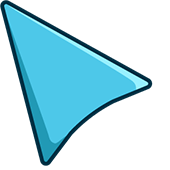
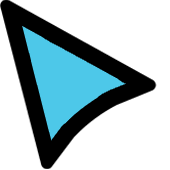
Hud and Menu Makeup
- changed cursor
- removed text outlines
- added main menu button patch
- renamed some tor to ter
- changed tersettings logo

Changed region(s): [[0.0, 0.0, 0.9412, 1.0]]

diff --git a/TheOtherRoles/Patches/MainMenuButtonsPatch.cs b/TheOtherRoles/Patches/MainMenuButtonsPatch.cs
@@ -1,0 +1,96 @@
+using HarmonyLib;
+using UnityEngine;
+
+/*
+ * This patch adds two buttons to the main menu:
+ * - Discord
+ * - GitHub
+ * And it changes the color of the exit button
+ */
+
+namespace TheOtherRoles.Patches {
+    [HarmonyPatch(typeof(MainMenuManager), nameof(MainMenuManager.Start))]
+    public class MainMenuButtonsPatch {
+
+        private static Color buttonColor = new Color(0, 1, 0.9f, 1);
+        private static Color buttonColorHover = new Color(0, 0.5f, 1, 1);
+        private static Color buttonExitColor = Color.red;
+        private static Color buttonExitColorHover = new Color(1, 0.3f, 0.3f, 1);
+        private static void Prefix(MainMenuManager __instance) {
+            // ---- Exit Button -----
+            // Get ExitGameButton
+            var btnExit = GameObject.Find("ExitGameButton");
+
+            // Get Button Sprite + Text
+            SpriteRenderer btnExitSprite = btnExit.GetComponent<SpriteRenderer>();
+            var textExit = btnExit.transform.GetChild(0).GetComponent<TMPro.TMP_Text>();
+           
+            // Change Init Color        
+            btnExitSprite.color = textExit.color = buttonExitColor;
+           
+            // Get PassivButton and add listeners
+            PassiveButton btnExitPassive = btnExit.GetComponent<PassiveButton>();
+            btnExitPassive.OnMouseOver.AddListener((UnityEngine.Events.UnityAction)delegate {
+                btnExitSprite.color = textExit.color = buttonExitColorHover;
+            });
+            btnExitPassive.OnMouseOut.AddListener((UnityEngine.Events.UnityAction)delegate {
+                btnExitSprite.color = textExit.color = buttonExitColor;         
+            });
+
+            // ---- Discord Button -----
+            // Clone ExitGameButton and change position
+            var btnDiscord = UnityEngine.Object.Instantiate(btnExit, null);
+            btnDiscord.transform.localPosition = new Vector3(btnDiscord.transform.localPosition.x, btnDiscord.transform.localPosition.y + 0.6f, btnDiscord.transform.localPosition.z);
+            
+            // Get Button Sprite + Text and change Text
+            SpriteRenderer btnDiscordSprite = btnDiscord.GetComponent<SpriteRenderer>();
+            var textDiscord = btnDiscord.transform.GetChild(0).GetComponent<TMPro.TMP_Text>();
+            __instance.StartCoroutine(Effects.Lerp(0.1f, new System.Action<float>((p) => {
+                textDiscord.SetText("Join TER\nDiscord");                
+            })));
+
+            // Change Init Color
+            btnDiscordSprite.color = textDiscord.color = buttonColor;
+
+            // Get PassivButton and add listeners
+            PassiveButton btnDiscordPassive = btnDiscord.GetComponent<PassiveButton>();
+            btnDiscordPassive.OnClick.AddListener((UnityEngine.Events.UnityAction)delegate {
+                Application.OpenURL("https://discord.gg/WjegsxEuAD");
+            });
+            btnDiscordPassive.OnMouseOver.AddListener((UnityEngine.Events.UnityAction)delegate {
+                btnDiscordSprite.color = textDiscord.color = buttonColorHover;
+            });
+            btnDiscordPassive.OnMouseOut.AddListener((UnityEngine.Events.UnityAction)delegate {
+                btnDiscordSprite.color = textDiscord.color = buttonColor;
+            });
+
+            // ---- GitHub Button -----
+            // Clone ExitGameButton and change position
+            var btnGithub = UnityEngine.Object.Instantiate(btnExit, null);
+            btnGithub.transform.localPosition = new Vector3(btnGithub.transform.localPosition.x, btnGithub.transform.localPosition.y + 1.2f, btnGithub.transform.localPosition.z);
+
+            // Get Button Sprite + Text and change Text
+            SpriteRenderer btnGithubsprite = btnGithub.GetComponent<SpriteRenderer>();
+            var textGithub = btnGithub.transform.GetChild(0).GetComponent<TMPro.TMP_Text>();
+            __instance.StartCoroutine(Effects.Lerp(0.1f, new System.Action<float>((p) => {
+                textGithub.SetText("Open\nGitHub");                
+            })));
+
+            // Change Init Color
+            btnGithubsprite.color = textGithub.color = buttonColor;
+
+            // Get PassivButton and add listeners
+            PassiveButton btnGithubPassive = btnGithub.GetComponent<PassiveButton>();
+            btnGithubPassive.OnClick.AddListener((UnityEngine.Events.UnityAction)delegate {
+                Application.OpenURL("https://github.com/LaicosVK/TheEpicRoles");
+            });
+            btnGithubPassive.OnMouseOver.AddListener((UnityEngine.Events.UnityAction)delegate {
+                btnGithubsprite.color = textGithub.color = buttonColorHover;
+            });
+            btnGithubPassive.OnMouseOut.AddListener((UnityEngine.Events.UnityAction)delegate {
+                btnGithubsprite.color = textGithub.color = buttonColor;
+            });
+
+        }
+    }
+}

diff --git a/TheOtherRoles/Patches/CredentialsPatch.cs b/TheOtherRoles/Patches/CredentialsPatch.cs
@@ -9,8 +9,8 @@ using UnityEngine;
 namespace TheOtherRoles.Patches {
     [HarmonyPatch]
     public static class CredentialsPatch {
-        public static string fullCredentials =  $@"<size=130%><color=#00ffd9>TheEpicRoles</color></size> <size=50%>v{TheOtherRolesPlugin.Version.ToString()}
-                                                Remodded by <color=#D5342AFF>LaicosVK</color>, <color=#D5342AFF>Nova</color> & <color=#D5342AFF>DasMonschta</color></size>";
+        public static string fullCredentials = $@"<size=130%><color=#00ffd9>TheEpicRoles</color></size> <size=50%>v{TheOtherRolesPlugin.Version.ToString()}
+                                               Remodded by <color=#D5342AFF>LaicosVK</color>, <color=#D5342AFF>Nova</color> & <color=#D5342AFF>DasMonschta</color></size>";
 
         public static string mainMenuCredentials = $@"Remodded by <color=#D5342AFF>LaicosVK</color>, <color=#D5342AFF>Nova</color> & <color=#D5342AFF>DasMonschta</color>";
 
@@ -28,7 +28,7 @@ namespace TheOtherRoles.Patches {
                 credentials.SetText($"v{TheOtherRolesPlugin.Version.ToString()}\n<size=30f%>\n</size>{mainMenuCredentials}\n<size=30%>\n</size>{torCredentials}");
                 credentials.alignment = TMPro.TextAlignmentOptions.Center;
                 credentials.fontSize *= 0.75f;
-
+                credentials.SetOutlineThickness(0);
                 credentials.transform.SetParent(amongUsLogo.transform);
             }
         }
@@ -53,14 +53,15 @@ namespace TheOtherRoles.Patches {
 
             static void Postfix(PingTracker __instance){
                 __instance.text.alignment = TMPro.TextAlignmentOptions.TopRight;
+                __instance.text.SetOutlineThickness(0);
                 if (AmongUsClient.Instance.GameState == InnerNet.InnerNetClient.GameStates.Started) {
-                    __instance.text.text = $"<size=130%><color=#ff351f>TheEpicRoles</color></size> v{TheOtherRolesPlugin.Version.ToString()}\n" + __instance.text.text;
+                    __instance.text.text = $"<size=130%><color=#00ffd9>TheEpicRoles</color></size> <size=50%>v{TheOtherRolesPlugin.Version.ToString()}</size>\n" + __instance.text.text;
                     if (PlayerControl.LocalPlayer.Data.IsDead || (!(PlayerControl.LocalPlayer == null) && (PlayerControl.LocalPlayer == Lovers.lover1 || PlayerControl.LocalPlayer == Lovers.lover2))) {
                         __instance.transform.localPosition = new Vector3(3.45f, __instance.transform.localPosition.y, __instance.transform.localPosition.z);
                     } else {
                         __instance.transform.localPosition = new Vector3(4.2f, __instance.transform.localPosition.y, __instance.transform.localPosition.z);
                     }
-                } else {
+                } else {   
                     __instance.text.text = $"{fullCredentials}\n{__instance.text.text}";
                     __instance.transform.localPosition = new Vector3(3.5f, __instance.transform.localPosition.y, __instance.transform.localPosition.z);
                 }
@@ -70,7 +71,7 @@ namespace TheOtherRoles.Patches {
         [HarmonyPatch(typeof(MainMenuManager), nameof(MainMenuManager.Start))]
         private static class LogoPatch
         {
-            static void Postfix(PingTracker __instance) {
+            static void Postfix(MainMenuManager __instance) {
                 var amongUsLogo = GameObject.Find("bannerLogo_AmongUs");
                 if (amongUsLogo != null) {
                     amongUsLogo.transform.localScale *= 0.6f;

diff --git a/TheOtherRoles/Patches/GameStartManagerPatch.cs b/TheOtherRoles/Patches/GameStartManagerPatch.cs
@@ -68,18 +68,18 @@ namespace TheOtherRoles.Patches {
                             continue;
                         else if (!playerVersions.ContainsKey(client.Id))  {
                             blockStart = true;
-                            message += $"<color=#FF0000FF>{client.Character.Data.PlayerName} has a different or no version of The Other Roles\n</color>";
+                            message += $"<color=#FF0000FF>{client.Character.Data.PlayerName} has a different or no version of The Epic Roles\n</color>";
                         } else {
                             PlayerVersion PV = playerVersions[client.Id];
                             int diff = TheOtherRolesPlugin.Version.CompareTo(PV.version);
                             if (diff > 0) {
-                                message += $"<color=#FF0000FF>{client.Character.Data.PlayerName} has an older version of The Other Roles (v{playerVersions[client.Id].version.ToString()})\n</color>";
+                                message += $"<color=#FF0000FF>{client.Character.Data.PlayerName} has an older version of The Epic Roles (v{playerVersions[client.Id].version.ToString()})\n</color>";
                                 blockStart = true;
                             } else if (diff < 0) {
-                                message += $"<color=#FF0000FF>{client.Character.Data.PlayerName} has a newer version of The Other Roles (v{playerVersions[client.Id].version.ToString()})\n</color>";
+                                message += $"<color=#FF0000FF>{client.Character.Data.PlayerName} has a newer version of The Epic Roles (v{playerVersions[client.Id].version.ToString()})\n</color>";
                                 blockStart = true;
                             } else if (!PV.GuidMatches()) { // version presumably matches, check if Guid matches
-                                message += $"<color=#FF0000FF>{client.Character.Data.PlayerName} has a modified version of TOR v{playerVersions[client.Id].version.ToString()} <size=30%>({PV.guid.ToString()})</size>\n</color>";
+                                message += $"<color=#FF0000FF>{client.Character.Data.PlayerName} has a modified version of TER v{playerVersions[client.Id].version.ToString()} <size=30%>({PV.guid.ToString()})</size>\n</color>";
                                 blockStart = true;
                             }
                         }
@@ -104,7 +104,7 @@ namespace TheOtherRoles.Patches {
                             SceneChanger.ChangeScene("MainMenu");
                         }
 
-                        __instance.GameStartText.text = $"<color=#FF0000FF>The host has no or a different version of The Other Roles\nYou will be kicked in {Math.Round(10 - kickingTimer)}s</color>";
+                        __instance.GameStartText.text = $"<color=#FF0000FF>The host has no or a different version of The Epic Roles\nYou will be kicked in {Math.Round(10 - kickingTimer)}s</color>";
                         __instance.GameStartText.transform.localPosition = __instance.StartButton.transform.localPosition + Vector3.up * 2;
                     } else {
                         __instance.GameStartText.transform.localPosition = __instance.StartButton.transform.localPosition;

diff --git a/TheOtherRoles/Patches/ScreenShakePatch.cs b/TheOtherRoles/Patches/ScreenShakePatch.cs
@@ -1,11 +1,14 @@
 using HarmonyLib;
 
+/*
+ * This patch removes the screen shake effect from the lobby
+ * and from the game. 
+ */
+
 namespace TheOtherRoles.Patches {
     [Harmony]
-    public class ScreenShakePatch {
-        
-        // Patches FollowerCamera.Update()
-        // Sets original or zero values for 
+    public class ScreenShakePatch {   
+
         [HarmonyPatch(typeof(FollowerCamera), nameof(FollowerCamera.Update))]
         private static class ShakePatch {
 
@@ -14,13 +17,14 @@ namespace TheOtherRoles.Patches {
             static void Prefix(FollowerCamera __instance) {
                 // Set values depending on mod option
                 if (TheOtherRolesPlugin.ToggleScreenShake.Value) {
+                    // Default Among Us shake values
                     lobbyShakeAmount = 0.03f;
                     gameShakeAmount = 0.02f;
                 }
                 else {
                     lobbyShakeAmount = gameShakeAmount = 0;
                 }
-                // Sets __instance.shakeAmount value depending on Gamemode / Gamestate
+                // Sets shakeAmount value depending on Gamemode / Gamestate
                 if (AmongUsClient.Instance.GameState == InnerNet.InnerNetClient.GameStates.Started || AmongUsClient.Instance.GameMode == GameModes.FreePlay)
                     __instance.shakeAmount = gameShakeAmount;
                 else

diff --git a/TheOtherRoles/Modules/ModUpdater.cs b/TheOtherRoles/Modules/ModUpdater.cs
@@ -36,7 +36,7 @@ namespace TheOtherRoles.Modules {
             if (template == null) return;
 
             var button = UnityEngine.Object.Instantiate(template, null);
-            button.transform.localPosition = new Vector3(button.transform.localPosition.x, button.transform.localPosition.y + 0.6f, button.transform.localPosition.z);
+            button.transform.localPosition = new Vector3(button.transform.localPosition.x, button.transform.localPosition.y + 1.8f, button.transform.localPosition.z);
 
             PassiveButton passiveButton = button.GetComponent<PassiveButton>();
             passiveButton.OnClick = new Button.ButtonClickedEvent();

diff --git a/TheOtherRoles/Modules/CustomOptions.cs b/TheOtherRoles/Modules/CustomOptions.cs
@@ -430,9 +430,12 @@ namespace TheOtherRoles {
 
     
     [HarmonyPatch(typeof(HudManager), nameof(HudManager.Update))]
-    public class GameSettingsScalePatch {
-        public static void Prefix(HudManager __instance) {
-            if (__instance.GameSettings != null) __instance.GameSettings.fontSize = 1.2f; 
+    public class GameSettingsFontPatch {
+        public static void Prefix(HudManager __instance) {    
+            if (__instance.GameSettings != null) {
+                __instance.GameSettings.SetOutlineThickness(0);
+                __instance.GameSettings.fontSize = 1.2f; 
+            }
         }
     }
 }

diff --git a/TheOtherRoles/Patches/ClientOptionsPatch.cs b/TheOtherRoles/Patches/ClientOptionsPatch.cs
@@ -174,7 +174,7 @@ namespace TheOtherRoles.Patches
                 passiveButton.OnClick.AddListener((Action) (() =>
                 {
                     if(info.Title == "Better Cursor") {
-                        Helpers.enableCursor(false);                  
+                        Helpers.enableCursor("toggle");                  
                     }
                     button.onState = info.OnClick();
                     button.Background.color = button.onState ? Color.green : Palette.ImpostorRed;

diff --git a/TheOtherRoles/Helpers.cs b/TheOtherRoles/Helpers.cs
@@ -20,8 +20,8 @@ namespace TheOtherRoles {
     }
     public static class Helpers {
 
-        public static void enableCursor(bool initalSetCursor) {
-            if (initalSetCursor) {
+        public static void enableCursor(string mode) {
+            if (mode == "init") {
                 Sprite sprite = Helpers.loadSpriteFromResources("TheOtherRoles.Resources.Cursor.png", 115f);
                 Cursor.SetCursor(sprite.texture, Vector2.zero, CursorMode.Auto);
                 return;

diff --git a/TheOtherRoles/Main.cs b/TheOtherRoles/Main.cs
@@ -94,7 +94,7 @@ namespace TheOtherRoles
             Harmony.PatchAll();
 
             if (ToggleCursor.Value) {
-                Helpers.enableCursor(true);
+                Helpers.enableCursor("init");
             }
         }
         public static Sprite GetModStamp() {
